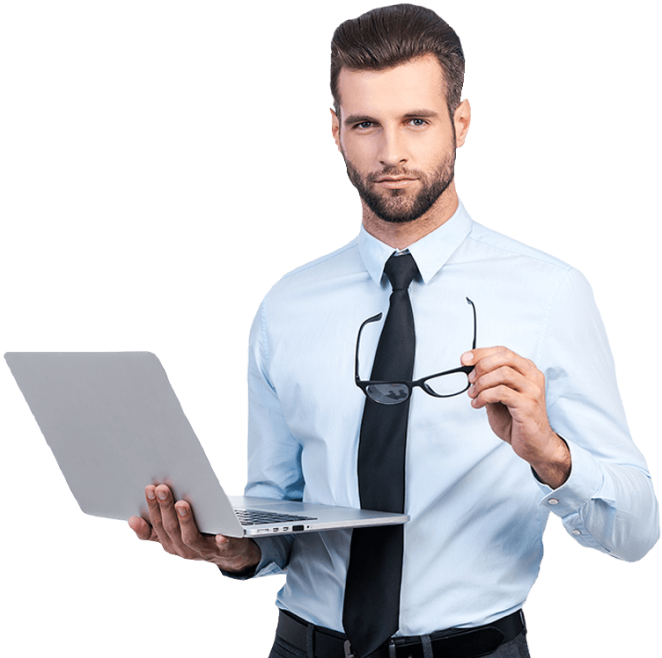
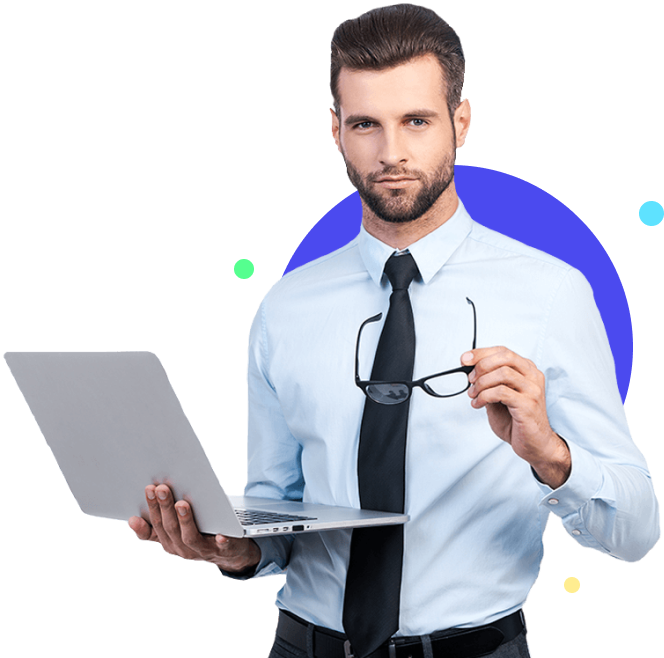
Feature section 2 made responsive

diff --git a/components/Features/FeatureTwo.tsx b/components/Features/FeatureTwo.tsx
@@ -14,9 +14,13 @@ type Props = {};
 const FeatureTwo = (props: Props) => {
   return (
     <Stack
-      direction={{ base: "column-reverse", md: "row" }}
+      w={"full"}
+      bg={"#FAFAFF"}
+      direction={{ base: "column-reverse", xl: "row" }}
       align={"center"}
-      spacing={"7.7rem"}
+      spacing={{ base: "2rem" }}
+      px={{ base: "3rem", md: "11.87rem" }}
+      py={{ base: "4rem", xl: "none" }}
     >
       <VStack align="left" spacing={"1.25rem"}>
         <Heading color={"#4A4A4A"} fontSize={"2.5rem"}>
@@ -39,7 +43,7 @@ const FeatureTwo = (props: Props) => {
             strokeLinecap="round"
           />
         </svg>
-        <Text color={"#575757"} fontSize={"1.5rem"} maxW={"42rem"}>
+        <Text color={"#575757"} fontSize={"1.5rem"} maxW={{ xl: "42rem" }}>
           Get started fast with hundreds of visual and customizable templates -
           or create your own. Use our free online template maker to create
           beautiful template in minutes. Choose from hundreds of pre-made
@@ -48,7 +52,14 @@ const FeatureTwo = (props: Props) => {
         </Text>
       </VStack>
       <Spacer />
-      <Box position={"relative"}>
+      <Image
+        src="assets/feature_section_male.png"
+        alt="man_in_features"
+        mt={"3.5rem"}
+        zIndex={"2"}
+        display={{ base: "block", xl: "none" }}
+      />
+      <Box position={"relative"} display={{ base: "none", xl: "block" }}>
         {/* Timer and small comment */}
         <Box position={"absolute"} top={"3.25rem"} left={"5rem"}>
           <svg
@@ -145,38 +156,6 @@ const FeatureTwo = (props: Props) => {
               d="M84 55.5V42C84 38.6863 81.3137 36 78 36L50 36C46.6863 36 44 38.6863 44 42L44 69C44 72.3137 46.6863 75 50 75H78C81.3137 75 84 72.3137 84 69V64.7625"
               stroke="white"
               strokeWidth="3"
-            />
-          </svg>
-        </Box>
-        {/* Purple background and small 3 circles */}
-        <Box
-          position={"absolute"}
-          bottom={"10rem"}
-          left={"12.5rem"}
-          boxSize={"40%"}
-        >
-          <svg
-            width="322"
-            height="321"
-            viewBox="0 0 430 428"
-            fill="none"
-            xmlns="http://www.w3.org/2000/svg"
-          >
-            <ellipse cx="216.5" cy="182" rx="182.5" ry="182" fill="#4B4AEF" />
-            <circle
-              r="12.5"
-              transform="matrix(-1 0 0 1 417.5 48.5)"
-              fill="#5EE2FF"
-            />
-            <circle
-              r="8"
-              transform="matrix(-1 0 0 1 338 420)"
-              fill="#FFED90"
-            />
-            <circle
-              r="10"
-              transform="matrix(-1 0 0 1 10 104)"
-              fill="#55FF8F"
             />
           </svg>
         </Box>

diff --git a/pages/index.tsx b/pages/index.tsx
@@ -26,9 +26,7 @@ const Home: NextPage = () => {
         <CompaniesSection />
         <WhatCanYouDoSection />
         <FeatureOne />
-        {/* <Box px={"11.87rem"} bg={"#FAFAFF"}>
-          <FeatureTwo />
-        </Box> */}
+        <FeatureTwo />
         <IntegrateSection />
         <FeatureThree />
         {/* <Box w={"full"} bg={"#FAFAFF"}> */}
